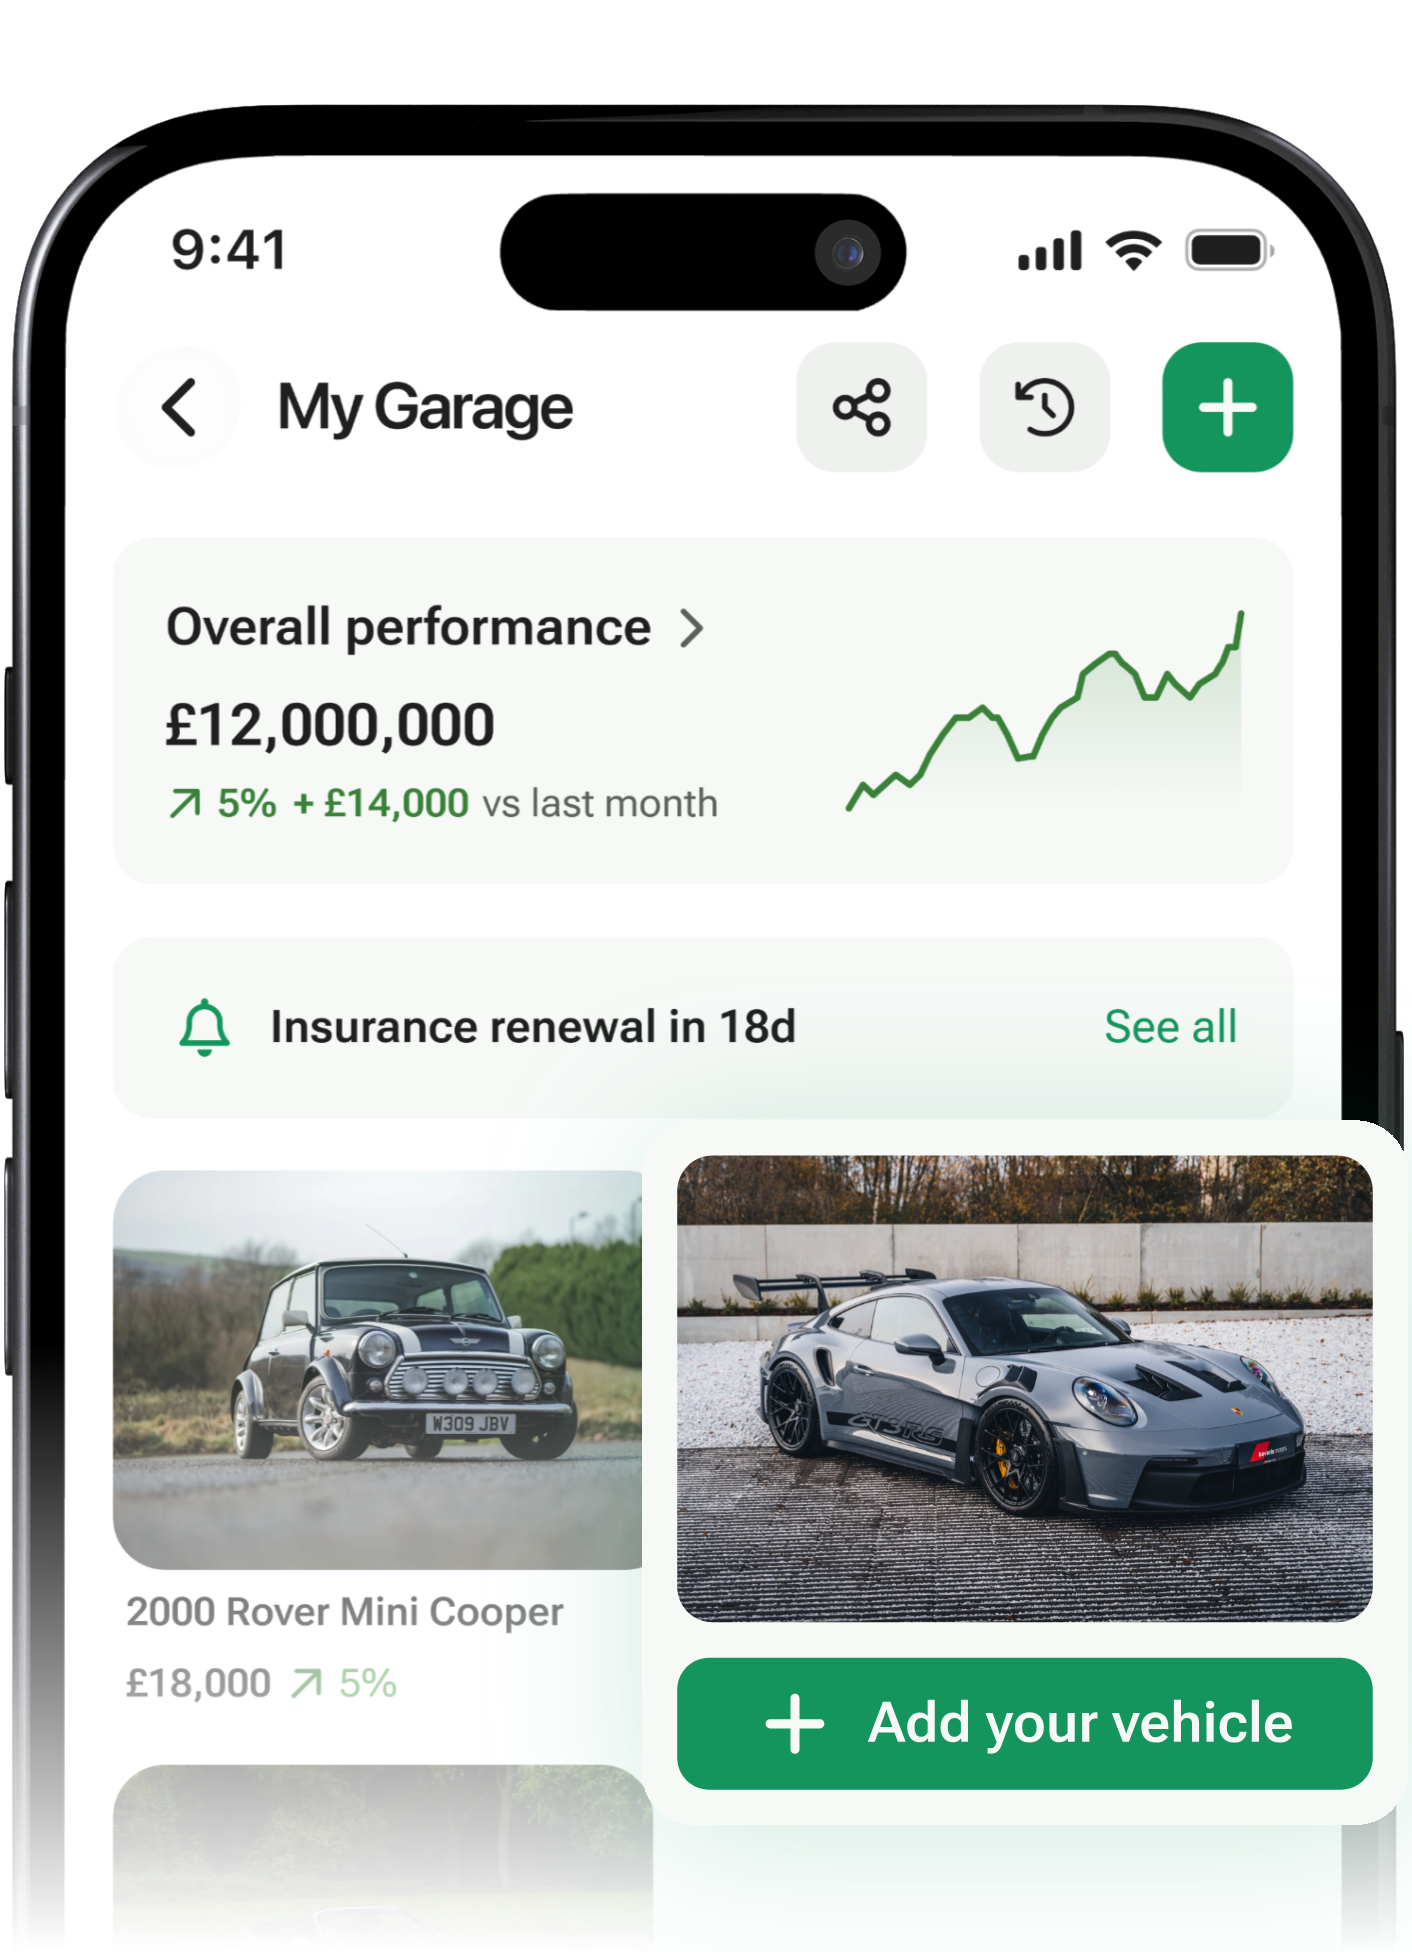
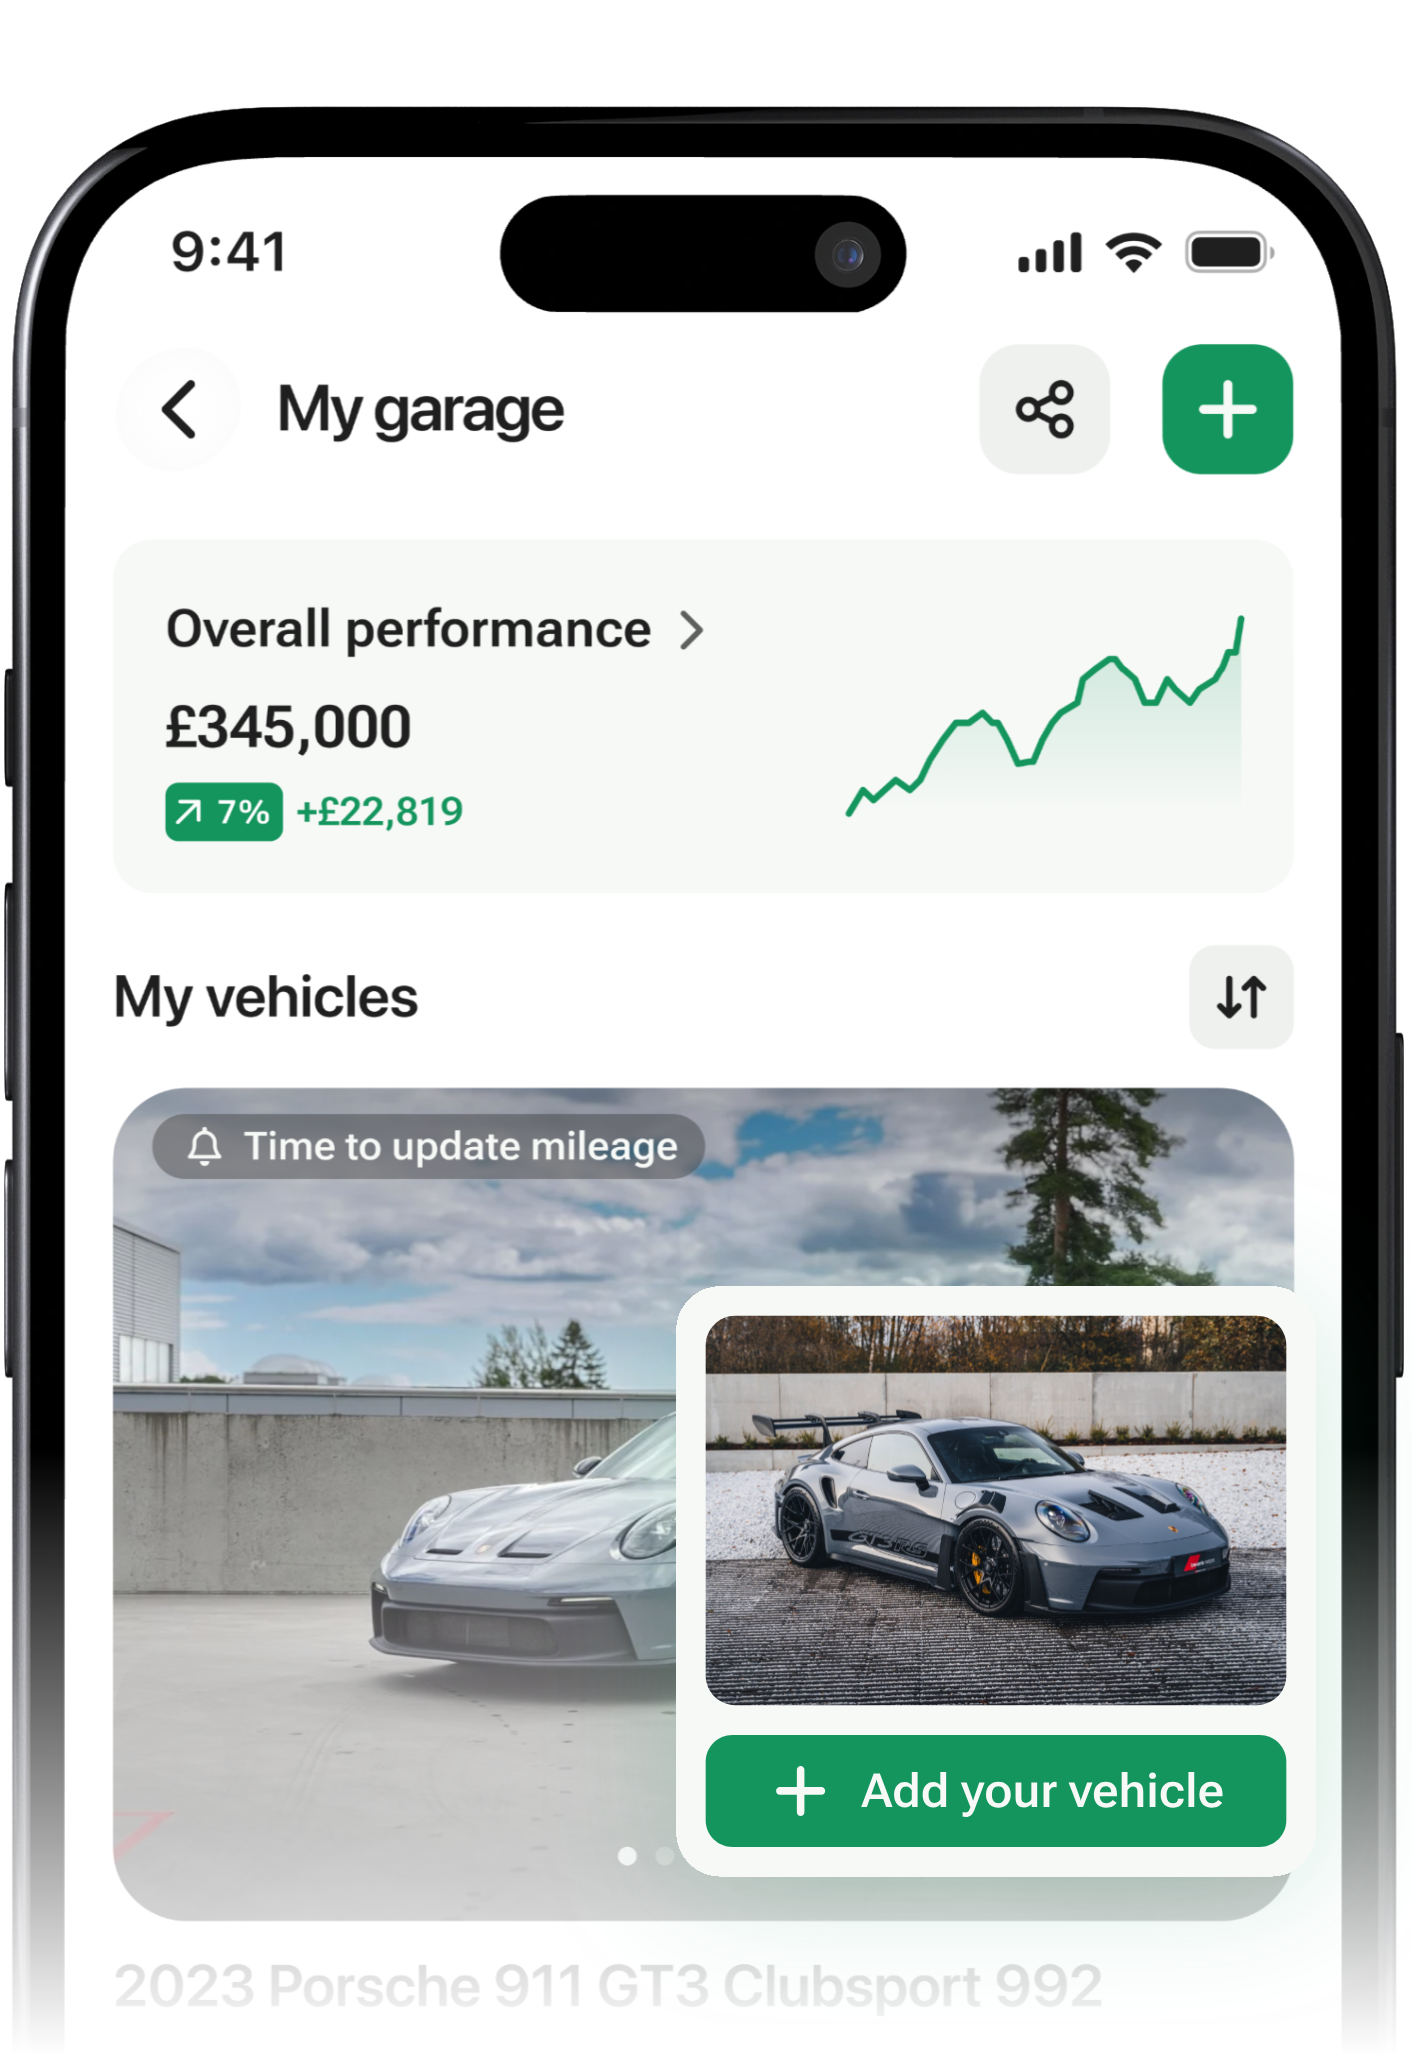
Restore onboarding on empty view with new illustrations; drop Saved back chevron
- Onboarding carousel auto-opens on the empty view again
- New onboarding thumbnails: rasterized New Onboarding/*.svg (embedded rasters)
  to 2x PNGs at assets/onboarding/onboarding-1..3.png
- Remove the back chevron from the Saved header (views reached via URL)
- gitignore/vercelignore the raw New Onboarding/ SVG source

diff --git a/screens/SavedScreen.js b/screens/SavedScreen.js
@@ -43,8 +43,15 @@ export default function SavedScreen({ navigation, route }) {
   // First-run onboarding carousel + coachmark — shown on the empty garage view.
   const [onboardingOpen, setOnboardingOpen] = useState(false);
   const [coachmarkOpen, setCoachmarkOpen] = useState(false);
-  // The empty view is now its own "Nothing saved yet!" screen (Figma 1529-13301),
-  // so the onboarding carousel/coachmark no longer auto-opens over it.
+  // First-run onboarding carousel + coachmark auto-open on the empty view.
+  useEffect(() => {
+    if (viewState === 'empty') {
+      setOnboardingOpen(true);
+    } else {
+      setOnboardingOpen(false);
+      setCoachmarkOpen(false);
+    }
+  }, [viewState]);
   const { vehicles, addVehicle } = useGarage();
 
   // Where a finished valuation lands depends on the ownership answer: a car the
@@ -118,17 +125,7 @@ export default function SavedScreen({ navigation, route }) {
     <View style={styles.screen}>
       <View style={[styles.header, { paddingTop: Math.max(insets.top, STATUS_BAR_H) }]}>
         <View style={styles.headerRow}>
-          <View style={styles.titleRow}>
-            <Pressable
-              onPress={() => navigation.goBack()}
-              accessibilityRole="button"
-              accessibilityLabel="Back to views"
-              hitSlop={8}
-            >
-              <Feather name="chevron-left" size={24} color={color.icon.neutralBold} />
-            </Pressable>
-            <Text style={styles.title}>Saved</Text>
-          </View>
+          <Text style={styles.title}>Saved</Text>
           <Pressable
             style={styles.addButton}
             onPress={() => setAddSheetOpen(true)}
